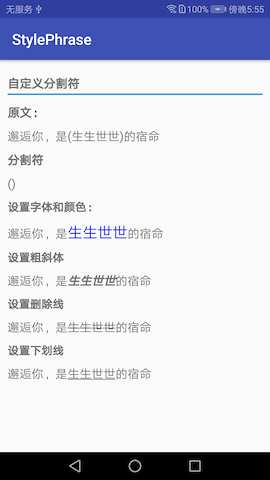
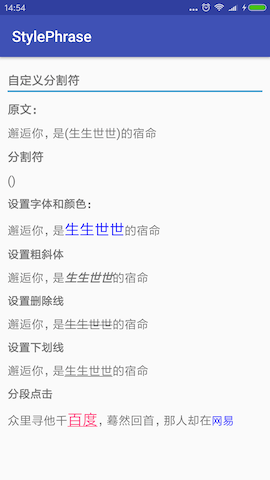
解决ClickableSpan不生效

diff --git a/app/src/main/java/com/phrase/CustomSeparatorActivity.kt b/app/src/main/java/com/phrase/CustomSeparatorActivity.kt
@@ -4,10 +4,15 @@ import android.graphics.Color
 import android.graphics.Typeface
 import android.os.Bundle
 import android.support.v7.app.AppCompatActivity
+import android.text.TextPaint
+import android.text.method.LinkMovementMethod
+import android.text.style.ClickableSpan
 import android.text.style.StrikethroughSpan
 import android.text.style.StyleSpan
 import android.text.style.UnderlineSpan
-import kotlinx.android.synthetic.main.activity_one_separator.*
+import android.view.View
+import android.widget.Toast
+import kotlinx.android.synthetic.main.activity_custom_separator.*
 
 class CustomSeparatorActivity : AppCompatActivity() {
 
@@ -47,6 +52,31 @@ class CustomSeparatorActivity : AppCompatActivity() {
         underlinePhrase.firstBuilder.addParcelableSpan(UnderlineSpan())
         tv_content_underline.text = underlinePhrase.format()
 
+        val multiClickText = getString(R.string.text_phrase_multi_click)
+        val multiClickPhrase = StylePhrase(multiClickText)
+        multiClickPhrase.firstBuilder.setSize(20).addParcelableSpan(object : ClickableSpan() {
+            override fun onClick(widget: View?) {
+                showToast("跳转百度")
+            }
+        })
+        multiClickPhrase.secondBuilder.setSize(15).addParcelableSpan(object : ClickableSpan() {
+            override fun onClick(widget: View?) {
+                showToast("跳转网易")
+            }
+
+            override fun updateDrawState(ds: TextPaint?) {
+                ds?.color = Color.BLUE
+                ds?.isUnderlineText = false
+            }
+        })
+        tv_content_multi_click.text = multiClickPhrase.format()
+        tv_content_multi_click.movementMethod = LinkMovementMethod.getInstance()
+
+
         tv_separator.text = colorAndSize.firstBuilder.separator
+    }
+
+    fun showToast(msg: String) {
+        Toast.makeText(baseContext, msg, Toast.LENGTH_SHORT).show()
     }
 }

diff --git a/library/src/main/java/com/phrase/StylePhrase.java b/library/src/main/java/com/phrase/StylePhrase.java
@@ -9,8 +9,8 @@ import android.text.SpannableStringBuilder;
 import android.text.TextUtils;
 import android.text.style.AbsoluteSizeSpan;
 import android.text.style.CharacterStyle;
+import android.text.style.ClickableSpan;
 import android.text.style.ForegroundColorSpan;
-import android.util.Log;
 
 import java.util.ArrayList;
 import java.util.List;
@@ -155,13 +155,10 @@ public class StylePhrase {
         if (curChar == EOF) {
             return null;
         }
-        Log.v("lhz", "curChar: " + curChar);
-
         if (null != mBuilders) {
             for (Builder builder : mBuilders) {
                 if (curChar == builder.getLeftSeparator()) {
                     char nextChar = lookahead();
-                    Log.v("lhz", "nextChar: " + nextChar);
                     if (nextChar == builder.getLeftSeparator()) {
                         return leftSeparator(prev, nextChar);
                     } else {
@@ -375,13 +372,6 @@ public class StylePhrase {
             this.mFlags = flags;
         }
 
-
-//        OuterToken(Token prev, int textLength, int _color) {
-//            super(prev);
-//            this.textLength = textLength;
-//            this.color = _color;
-//        }
-
         @Override
         void expand(@NonNull SpannableStringBuilder target) {
 
@@ -390,7 +380,11 @@ public class StylePhrase {
 
             if (null != mCharacterStyles) {
                 for (CharacterStyle characterStyle : mCharacterStyles) {
-                    target.setSpan(CharacterStyle.wrap(characterStyle), startPoint, endPoint, mFlags);
+                    if (characterStyle instanceof ClickableSpan) {
+                        target.setSpan(characterStyle, startPoint, endPoint, mFlags);
+                    } else {
+                        target.setSpan(CharacterStyle.wrap(characterStyle), startPoint, endPoint, mFlags);
+                    }
                 }
             }
 
@@ -446,32 +440,23 @@ public class StylePhrase {
             this.mFlags = flags;
         }
 
-//        InnerToken(Token prev, String inner, int color, int size) {
-//            super(prev);
-//            this.mInnerText = inner;
-//            this.color = color;
-//            this.size = size;
-//        }
-
         @Override
         void expand(@NonNull SpannableStringBuilder target) {
 
             int replaceFrom = getFormattedStart();
             // Add 2 to account for the separators.
             int replaceTo = replaceFrom + mInnerText.length() + 2;
-            Log.v("lhz", "innerToken: " + replaceFrom + " " + replaceTo + " " + mInnerText);
             target.replace(replaceFrom, replaceTo, mInnerText);
-
 
             if (null != mCharacterStyles) {
                 for (CharacterStyle span : mCharacterStyles) {
-                    target.setSpan(CharacterStyle.wrap(span), replaceFrom, replaceTo - 2, mFlags);
+                    if (span instanceof ClickableSpan) {
+                        target.setSpan(span, replaceFrom, replaceTo - 2, mFlags);
+                    } else {
+                        target.setSpan(CharacterStyle.wrap(span), replaceFrom, replaceTo - 2, mFlags);
+                    }
                 }
             }
-//
-//            target.setSpan(new ForegroundColorSpan(color), replaceFrom, replaceTo - 2,
-//                    Spannable.SPAN_EXCLUSIVE_EXCLUSIVE);
-//            target.setSpan(new AbsoluteSizeSpan(size), replaceFrom, replaceTo - 2, Spannable.SPAN_EXCLUSIVE_EXCLUSIVE);
         }
 
         @Override
